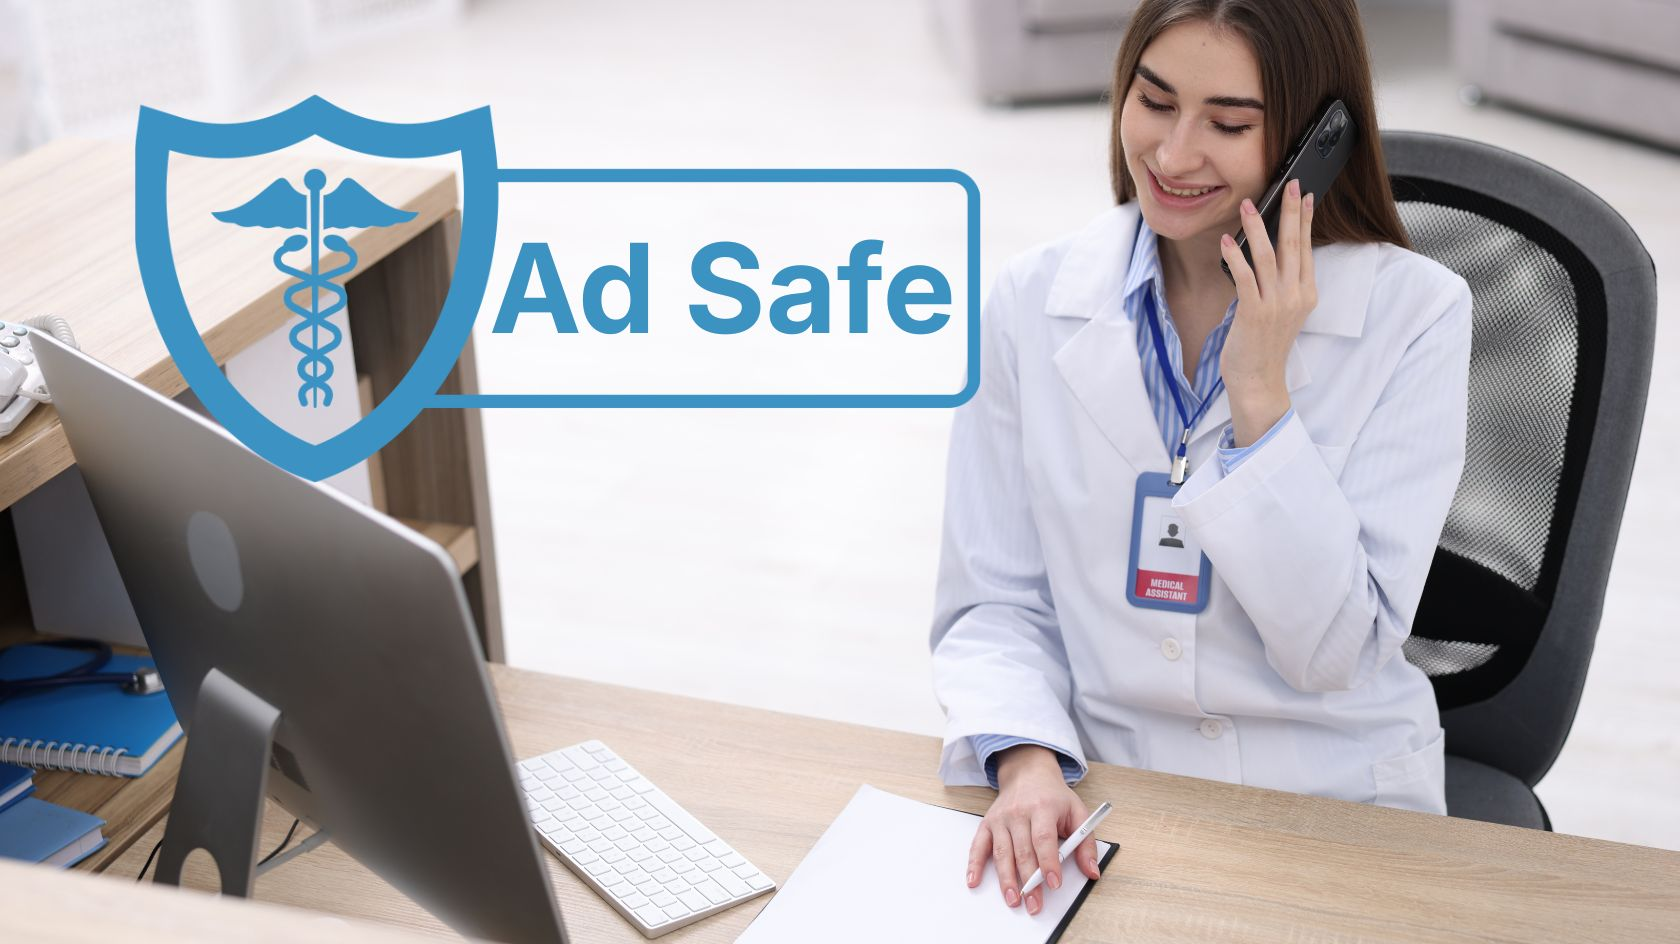
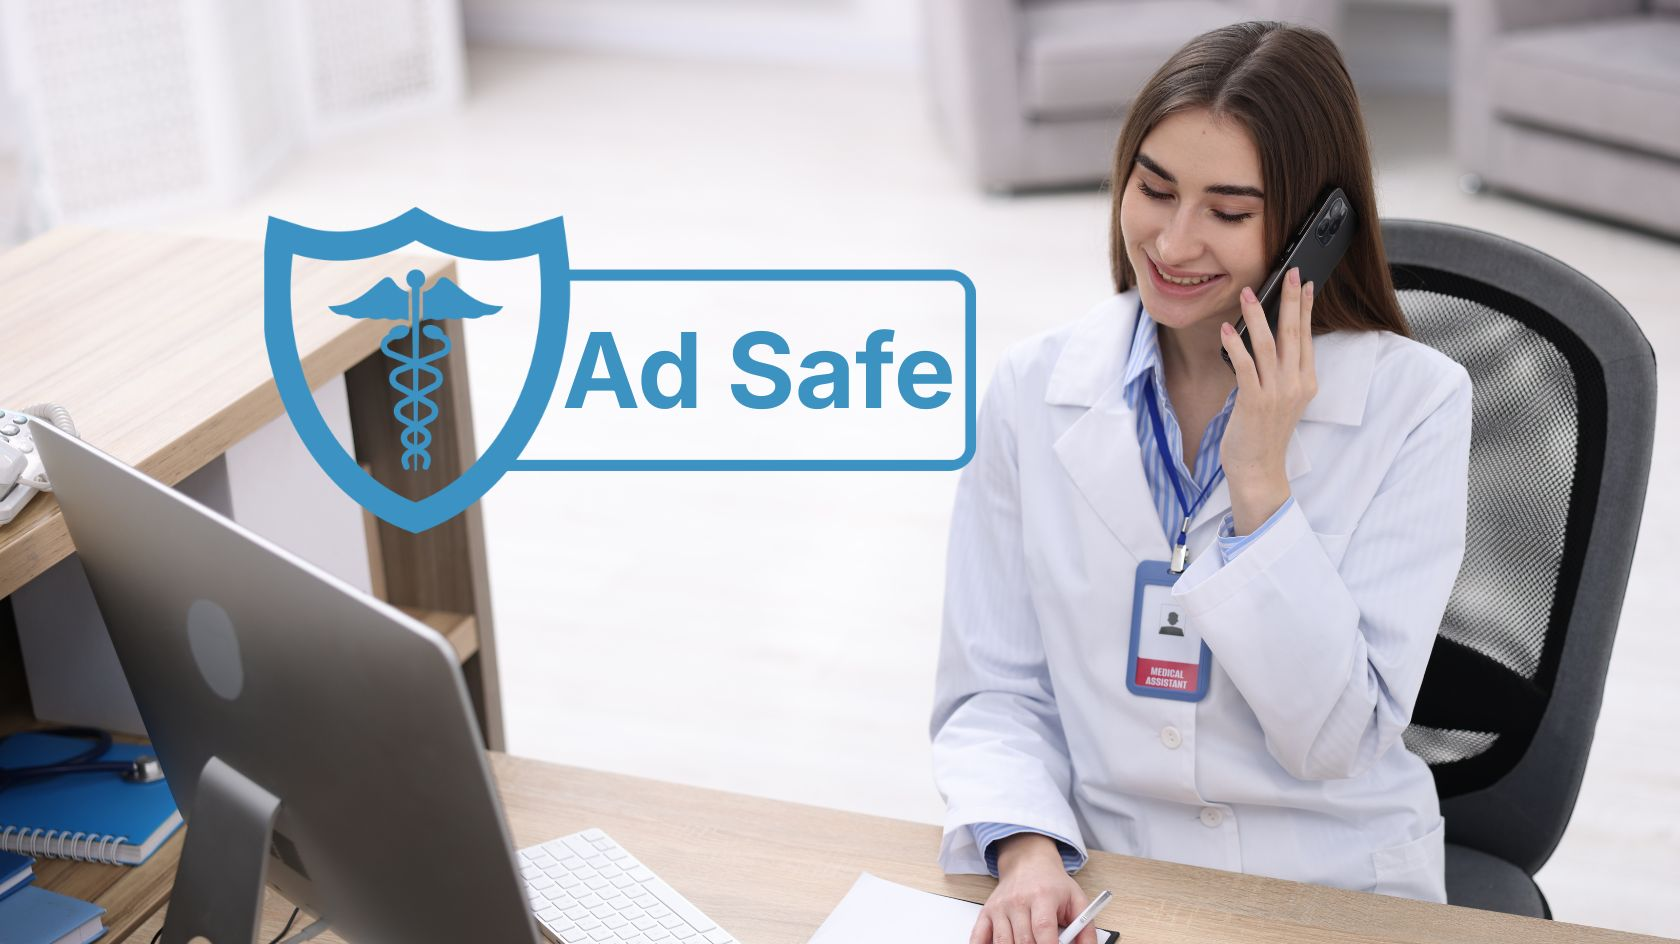
Fix LinkedIn profile URL in contact footer
Corrects the contact link to the actual profile
(linkedin.com/in/matt-martin-34345914). Previous URL
pointed to a non-matching handle.

Also includes updated product images for AdSafe and
Medflow Offline that were already modified in the tree.

diff --git a/src/components/sections/Contact.tsx b/src/components/sections/Contact.tsx
@@ -114,7 +114,7 @@ export default function Contact({ onSend }: { onSend: (email: string) => void })
           <span className="md-typescale-body-medium">matt@medware.com.au</span>
         </a>
         <a
-          href="https://linkedin.com/in/mattmartin"
+          href="https://www.linkedin.com/in/matt-martin-34345914"
           target="_blank"
           rel="noopener noreferrer"
           className="mw-contact-link"
